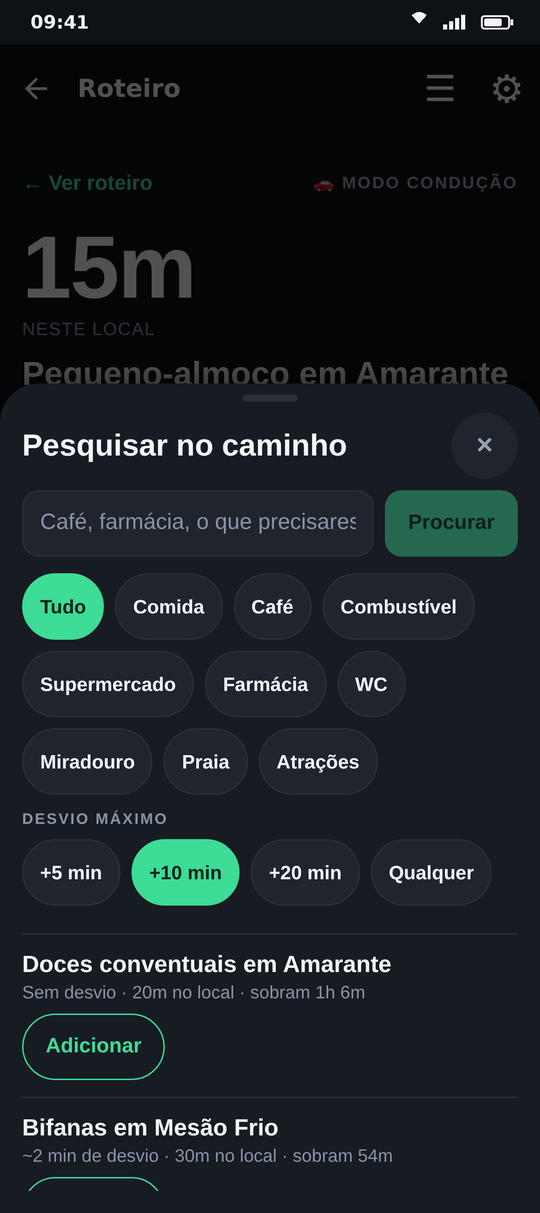
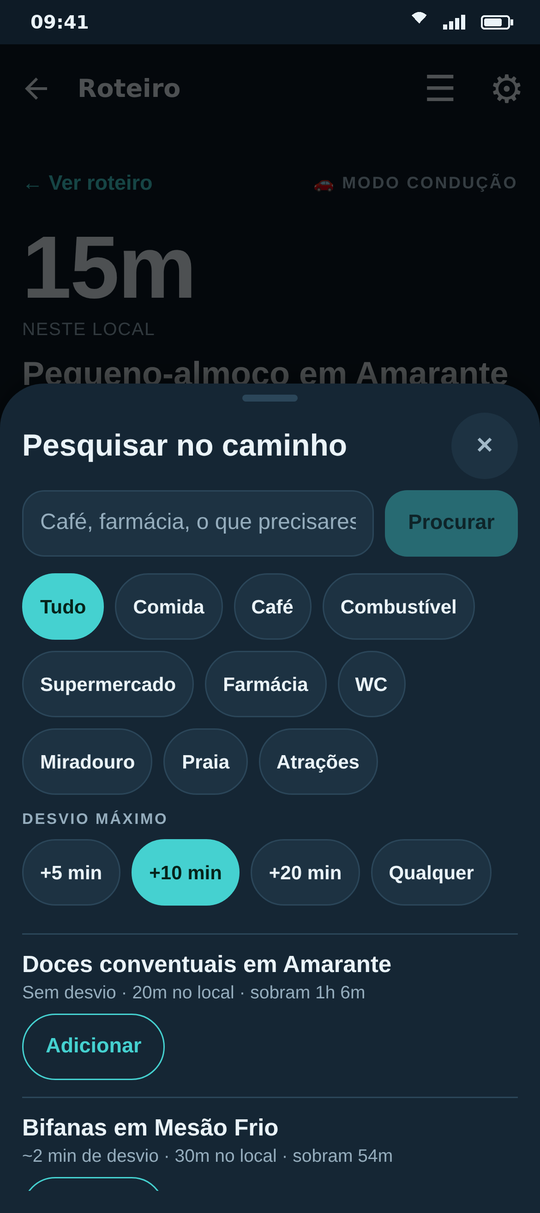
Home: sea-glass light mode and app captures that match the page's mode
- Light mode tinted rather than near-white
- App screens captured in both themes (Brisa and Brisa noite, synthetic
  Douro trip); the page shows the set matching its own mode

diff --git a/index.html b/index.html
@@ -5,7 +5,7 @@
 <meta name="viewport" content="width=device-width, initial-scale=1">
 <title>Plan-ish: planeia a viagem, depois vive-a</title>
 <meta name="description" content="Planeador e acompanhante de viagens para Android. Roteiro dia a dia, horas que se ajustam sozinhas e o Google Maps a um toque. Sem conta e sem anúncios.">
-<meta name="theme-color" content="#F2F7F8">
+<meta name="theme-color" content="#D5E7E6">
 <script>try { if (localStorage.getItem('planish-theme') === 'dark') document.documentElement.dataset.theme = 'dark'; } catch (e) {}</script>
 <meta property="og:type" content="website">
 <meta property="og:title" content="Plan-ish: planeia a viagem, depois vive-a">
@@ -42,8 +42,10 @@
         </div>
       </div>
       <div class="phones rise" aria-label="O Plan-ish no telemóvel">
-        <img class="phone back" src="assets/shot-conducao.png" width="540" height="1213" alt="Modo condução: 15 minutos no local, pode sair às 10:15, a seguir almoço no Peso da Régua.">
-        <img class="phone front" src="assets/shot-roteiro.png" width="540" height="1213" alt="Roteiro de uma sexta-feira do Porto ao Pinhão, com as horas de cada paragem, as deslocações e a margem entre elas.">
+        <img class="on-light phone back" src="assets/shot-conducao-light.png" width="540" height="1213" alt="Modo condução: 15 minutos no local, pode sair às 10:15, a seguir almoço no Peso da Régua.">
+<img class="on-dark phone back" src="assets/shot-conducao.png" width="540" height="1213" alt="Modo condução: 15 minutos no local, pode sair às 10:15, a seguir almoço no Peso da Régua.">
+        <img class="on-light phone front" src="assets/shot-roteiro-light.png" width="540" height="1213" alt="Roteiro de uma sexta-feira do Porto ao Pinhão, com as horas de cada paragem, as deslocações e a margem entre elas.">
+<img class="on-dark phone front" src="assets/shot-roteiro.png" width="540" height="1213" alt="Roteiro de uma sexta-feira do Porto ao Pinhão, com as horas de cada paragem, as deslocações e a margem entre elas.">
       </div>
     </div>
   </section>
@@ -69,26 +71,31 @@
           <svg class="icon" aria-hidden="true" focusable="false" xmlns="http://www.w3.org/2000/svg" viewBox="0 0 256 256" fill="currentColor"><path d="M228.92,49.69a8,8,0,0,0-6.86-1.45L160.93,63.52,99.58,32.84a8,8,0,0,0-5.52-.6l-64,16A8,8,0,0,0,24,56V200a8,8,0,0,0,9.94,7.76l61.13-15.28,61.35,30.68A8.15,8.15,0,0,0,160,224a8,8,0,0,0,1.94-.24l64-16A8,8,0,0,0,232,200V56A8,8,0,0,0,228.92,49.69ZM104,52.94l48,24V203.06l-48-24ZM40,62.25l48-12v127.5l-48,12Zm176,131.5-48,12V78.25l48-12Z"/></svg>
           <h3>Sabes sempre como vai o dia</h3>
           <p>Onde estás no plano, quanto falta e se o resto ainda cabe. As horas seguintes acertam-se sozinhas.</p>
-          <img class="card" src="assets/card-agora.png" width="666" height="289" alt="Cartão Agora: pequeno-almoço em Amarante, aqui há 15 minutos, faltam 30, dentro do plano." loading="lazy">
-          <img class="phone-in" src="assets/shot-roteiro.png" width="540" height="1213" alt="" loading="lazy">
+          <img class="on-light card" src="assets/card-agora-light.png" width="666" height="289" alt="Cartão Agora: pequeno-almoço em Amarante, aqui há 15 minutos, faltam 30, dentro do plano." loading="lazy">
+<img class="on-dark card" src="assets/card-agora.png" width="666" height="289" alt="Cartão Agora: pequeno-almoço em Amarante, aqui há 15 minutos, faltam 30, dentro do plano." loading="lazy">
+          <img class="on-light phone-in" src="assets/shot-roteiro-light.png" width="540" height="1213" alt="" loading="lazy">
+<img class="on-dark phone-in" src="assets/shot-roteiro.png" width="540" height="1213" alt="" loading="lazy">
         </article>
         <article class="tile tint rise">
           <svg class="icon" aria-hidden="true" focusable="false" xmlns="http://www.w3.org/2000/svg" viewBox="0 0 256 256" fill="currentColor"><path d="M176,232a8,8,0,0,1-8,8H88a8,8,0,0,1,0-16h80A8,8,0,0,1,176,232Zm40-128a87.55,87.55,0,0,1-33.64,69.21A16.24,16.24,0,0,0,176,186v6a16,16,0,0,1-16,16H96a16,16,0,0,1-16-16v-6a16,16,0,0,0-6.23-12.66A87.59,87.59,0,0,1,40,104.49C39.74,56.83,78.26,17.14,125.88,16A88,88,0,0,1,216,104Zm-16,0a72,72,0,0,0-73.74-72c-39,.92-70.47,33.39-70.26,72.39a71.65,71.65,0,0,0,27.64,56.3A32,32,0,0,1,96,186v6h64v-6a32.15,32.15,0,0,1,12.47-25.35A71.65,71.65,0,0,0,200,104Zm-16.11-9.34a57.6,57.6,0,0,0-46.56-46.55,8,8,0,0,0-2.66,15.78c16.57,2.79,30.63,16.85,33.44,33.45A8,8,0,0,0,176,104a9,9,0,0,0,1.35-.11A8,8,0,0,0,183.89,94.66Z"/></svg>
           <h3>Ideias que cabem no caminho</h3>
           <p>Guarda sítios sem hora marcada. Se sobrar tempo, o Plan-ish sugere um que fique no caminho.</p>
-          <img class="shot" src="assets/shot-sugestao.png" width="540" height="1213" alt="Sugestão: tens cerca de 1h20 livres e um miradouro fica no caminho." loading="lazy">
+          <img class="on-light shot" src="assets/shot-sugestao-light.png" width="540" height="1213" alt="Sugestão: tens cerca de 1h20 livres e um miradouro fica no caminho." loading="lazy">
+<img class="on-dark shot" src="assets/shot-sugestao.png" width="540" height="1213" alt="Sugestão: tens cerca de 1h20 livres e um miradouro fica no caminho." loading="lazy">
         </article>
         <article class="tile rise">
           <svg class="icon" aria-hidden="true" focusable="false" xmlns="http://www.w3.org/2000/svg" viewBox="0 0 256 256" fill="currentColor"><path d="M229.66,218.34l-50.07-50.06a88.11,88.11,0,1,0-11.31,11.31l50.06,50.07a8,8,0,0,0,11.32-11.32ZM40,112a72,72,0,1,1,72,72A72.08,72.08,0,0,1,40,112Z"/></svg>
           <h3>Pesquisar no caminho</h3>
           <p>Café, combustível ou farmácia, ordenados pelo tempo que acrescentam à viagem.</p>
-          <img class="shot" style="object-position: 50% 36%" src="assets/shot-caminho.png" width="540" height="1213" alt="Pesquisar no caminho, com o desvio de cada resultado." loading="lazy">
+          <img class="on-light shot" style="object-position: 50% 36%" src="assets/shot-caminho-light.png" width="540" height="1213" alt="Pesquisar no caminho, com o desvio de cada resultado." loading="lazy">
+<img class="on-dark shot" style="object-position: 50% 36%" src="assets/shot-caminho.png" width="540" height="1213" alt="Pesquisar no caminho, com o desvio de cada resultado." loading="lazy">
         </article>
         <article class="tile rise">
           <svg class="icon" aria-hidden="true" focusable="false" xmlns="http://www.w3.org/2000/svg" viewBox="0 0 256 256" fill="currentColor"><path d="M173.66,98.34a8,8,0,0,1,0,11.32l-56,56a8,8,0,0,1-11.32,0l-24-24a8,8,0,0,1,11.32-11.32L112,148.69l50.34-50.35A8,8,0,0,1,173.66,98.34ZM224,48V208a16,16,0,0,1-16,16H48a16,16,0,0,1-16-16V48A16,16,0,0,1,48,32H208A16,16,0,0,1,224,48ZM208,208V48H48V208H208Z"/></svg>
           <h3>O que levar, por paragem</h3>
           <p>O protetor solar fica no miradouro, as botas na caminhada. Vês a viagem inteira ou dia a dia.</p>
-          <img class="shot" src="assets/shot-checklist.png" width="540" height="1213" alt="Checklist da viagem, com as paragens que pedem cada coisa." loading="lazy">
+          <img class="on-light shot" src="assets/shot-checklist-light.png" width="540" height="1213" alt="Checklist da viagem, com as paragens que pedem cada coisa." loading="lazy">
+<img class="on-dark shot" src="assets/shot-checklist.png" width="540" height="1213" alt="Checklist da viagem, com as paragens que pedem cada coisa." loading="lazy">
         </article>
         <article class="tile tint rise">
           <svg class="icon" aria-hidden="true" focusable="false" xmlns="http://www.w3.org/2000/svg" viewBox="0 0 256 256" fill="currentColor"><path d="M216,40H72A16,16,0,0,0,56,56V72H40A16,16,0,0,0,24,88V200a16,16,0,0,0,16,16H184a16,16,0,0,0,16-16V184h16a16,16,0,0,0,16-16V56A16,16,0,0,0,216,40ZM72,56H216v62.75l-10.07-10.06a16,16,0,0,0-22.63,0l-20,20-44-44a16,16,0,0,0-22.62,0L72,109.37ZM184,200H40V88H56v80a16,16,0,0,0,16,16H184Zm32-32H72V132l36-36,49.66,49.66a8,8,0,0,0,11.31,0L194.63,120,216,141.38V168ZM160,84a12,12,0,1,1,12,12A12,12,0,0,1,160,84Z"/></svg>
@@ -107,8 +114,10 @@
   <section class="section drive">
     <div class="wrap">
       <div class="pair rise">
-        <img src="assets/shot-conducao.png" width="540" height="1213" alt="Modo condução em letra grande, com o botão para marcar a saída." loading="lazy">
-        <img src="assets/shot-dial.png" width="540" height="1213" alt="Modo condução com o botão + aberto: adicionar paragem, pesquisar no caminho, ajustar o dia." loading="lazy">
+        <img class="on-light a" src="assets/shot-conducao-light.png" width="540" height="1213" alt="Modo condução em letra grande, com o botão para marcar a saída." loading="lazy">
+<img class="on-dark a" src="assets/shot-conducao.png" width="540" height="1213" alt="Modo condução em letra grande, com o botão para marcar a saída." loading="lazy">
+        <img class="on-light b" src="assets/shot-dial-light.png" width="540" height="1213" alt="Modo condução com o botão + aberto: adicionar paragem, pesquisar no caminho, ajustar o dia." loading="lazy">
+<img class="on-dark b" src="assets/shot-dial.png" width="540" height="1213" alt="Modo condução com o botão + aberto: adicionar paragem, pesquisar no caminho, ajustar o dia." loading="lazy">
       </div>
       <div>
         <h2 class="rise">Ao volante, só o essencial</h2>
@@ -178,7 +187,7 @@
     function show() {
       var dark = root.dataset.theme === 'dark';
       button.setAttribute('aria-pressed', String(dark));
-      meta.setAttribute('content', dark ? '#0E1B26' : '#F2F7F8');
+      meta.setAttribute('content', dark ? '#0E1B26' : '#D5E7E6');
     }
     button.addEventListener('click', function () {
       if (root.dataset.theme === 'dark') delete root.dataset.theme; else root.dataset.theme = 'dark';

diff --git a/index.en.html b/index.en.html
@@ -5,7 +5,7 @@
 <meta name="viewport" content="width=device-width, initial-scale=1">
 <title>Plan-ish: plan the trip, then live it</title>
 <meta name="description" content="A trip planner and travel companion for Android. A day-by-day itinerary, times that adjust themselves and Google Maps one tap away. No account, no ads.">
-<meta name="theme-color" content="#F2F7F8">
+<meta name="theme-color" content="#D5E7E6">
 <script>try { if (localStorage.getItem('planish-theme') === 'dark') document.documentElement.dataset.theme = 'dark'; } catch (e) {}</script>
 <meta property="og:type" content="website">
 <meta property="og:title" content="Plan-ish: plan the trip, then live it">
@@ -42,8 +42,10 @@
         </div>
       </div>
       <div class="phones rise" aria-label="Plan-ish on a phone">
-        <img class="phone back" src="assets/shot-conducao.png" width="540" height="1213" alt="Driving mode: 15 minutes here, you can leave at 10:15, lunch in Peso da Régua next.">
-        <img class="phone front" src="assets/shot-roteiro.png" width="540" height="1213" alt="A Friday itinerary from Porto to Pinhão, with the time of each stop, the drives and the slack between them.">
+        <img class="on-light phone back" src="assets/shot-conducao-light.png" width="540" height="1213" alt="Driving mode: 15 minutes here, you can leave at 10:15, lunch in Peso da Régua next.">
+<img class="on-dark phone back" src="assets/shot-conducao.png" width="540" height="1213" alt="Driving mode: 15 minutes here, you can leave at 10:15, lunch in Peso da Régua next.">
+        <img class="on-light phone front" src="assets/shot-roteiro-light.png" width="540" height="1213" alt="A Friday itinerary from Porto to Pinhão, with the time of each stop, the drives and the slack between them.">
+<img class="on-dark phone front" src="assets/shot-roteiro.png" width="540" height="1213" alt="A Friday itinerary from Porto to Pinhão, with the time of each stop, the drives and the slack between them.">
       </div>
     </div>
   </section>
@@ -69,26 +71,31 @@
           <svg class="icon" aria-hidden="true" focusable="false" xmlns="http://www.w3.org/2000/svg" viewBox="0 0 256 256" fill="currentColor"><path d="M228.92,49.69a8,8,0,0,0-6.86-1.45L160.93,63.52,99.58,32.84a8,8,0,0,0-5.52-.6l-64,16A8,8,0,0,0,24,56V200a8,8,0,0,0,9.94,7.76l61.13-15.28,61.35,30.68A8.15,8.15,0,0,0,160,224a8,8,0,0,0,1.94-.24l64-16A8,8,0,0,0,232,200V56A8,8,0,0,0,228.92,49.69ZM104,52.94l48,24V203.06l-48-24ZM40,62.25l48-12v127.5l-48,12Zm176,131.5-48,12V78.25l48-12Z"/></svg>
           <h3>Always know how the day is going</h3>
           <p>Where you are in the plan, how long is left and whether the rest still fits. The times that follow adjust themselves.</p>
-          <img class="card" src="assets/card-agora.png" width="666" height="289" alt="Now card: breakfast in Amarante, here for 15 minutes, 30 to go, on plan." loading="lazy">
-          <img class="phone-in" src="assets/shot-roteiro.png" width="540" height="1213" alt="" loading="lazy">
+          <img class="on-light card" src="assets/card-agora-light.png" width="666" height="289" alt="Now card: breakfast in Amarante, here for 15 minutes, 30 to go, on plan." loading="lazy">
+<img class="on-dark card" src="assets/card-agora.png" width="666" height="289" alt="Now card: breakfast in Amarante, here for 15 minutes, 30 to go, on plan." loading="lazy">
+          <img class="on-light phone-in" src="assets/shot-roteiro-light.png" width="540" height="1213" alt="" loading="lazy">
+<img class="on-dark phone-in" src="assets/shot-roteiro.png" width="540" height="1213" alt="" loading="lazy">
         </article>
         <article class="tile tint rise">
           <svg class="icon" aria-hidden="true" focusable="false" xmlns="http://www.w3.org/2000/svg" viewBox="0 0 256 256" fill="currentColor"><path d="M176,232a8,8,0,0,1-8,8H88a8,8,0,0,1,0-16h80A8,8,0,0,1,176,232Zm40-128a87.55,87.55,0,0,1-33.64,69.21A16.24,16.24,0,0,0,176,186v6a16,16,0,0,1-16,16H96a16,16,0,0,1-16-16v-6a16,16,0,0,0-6.23-12.66A87.59,87.59,0,0,1,40,104.49C39.74,56.83,78.26,17.14,125.88,16A88,88,0,0,1,216,104Zm-16,0a72,72,0,0,0-73.74-72c-39,.92-70.47,33.39-70.26,72.39a71.65,71.65,0,0,0,27.64,56.3A32,32,0,0,1,96,186v6h64v-6a32.15,32.15,0,0,1,12.47-25.35A71.65,71.65,0,0,0,200,104Zm-16.11-9.34a57.6,57.6,0,0,0-46.56-46.55,8,8,0,0,0-2.66,15.78c16.57,2.79,30.63,16.85,33.44,33.45A8,8,0,0,0,176,104a9,9,0,0,0,1.35-.11A8,8,0,0,0,183.89,94.66Z"/></svg>
           <h3>Ideas that fit on the way</h3>
           <p>Save places without a set time. With time to spare, Plan-ish suggests one on your way.</p>
-          <img class="shot" src="assets/shot-sugestao.png" width="540" height="1213" alt="Suggestion: about 1h20 free, and a viewpoint on the way." loading="lazy">
+          <img class="on-light shot" src="assets/shot-sugestao-light.png" width="540" height="1213" alt="Suggestion: about 1h20 free, and a viewpoint on the way." loading="lazy">
+<img class="on-dark shot" src="assets/shot-sugestao.png" width="540" height="1213" alt="Suggestion: about 1h20 free, and a viewpoint on the way." loading="lazy">
         </article>
         <article class="tile rise">
           <svg class="icon" aria-hidden="true" focusable="false" xmlns="http://www.w3.org/2000/svg" viewBox="0 0 256 256" fill="currentColor"><path d="M229.66,218.34l-50.07-50.06a88.11,88.11,0,1,0-11.31,11.31l50.06,50.07a8,8,0,0,0,11.32-11.32ZM40,112a72,72,0,1,1,72,72A72.08,72.08,0,0,1,40,112Z"/></svg>
           <h3>Search along the way</h3>
           <p>Coffee, fuel or a pharmacy, sorted by how much time each adds to the trip.</p>
-          <img class="shot" style="object-position: 50% 36%" src="assets/shot-caminho.png" width="540" height="1213" alt="Search along the way, with the detour for each result." loading="lazy">
+          <img class="on-light shot" style="object-position: 50% 36%" src="assets/shot-caminho-light.png" width="540" height="1213" alt="Search along the way, with the detour for each result." loading="lazy">
+<img class="on-dark shot" style="object-position: 50% 36%" src="assets/shot-caminho.png" width="540" height="1213" alt="Search along the way, with the detour for each result." loading="lazy">
         </article>
         <article class="tile rise">
           <svg class="icon" aria-hidden="true" focusable="false" xmlns="http://www.w3.org/2000/svg" viewBox="0 0 256 256" fill="currentColor"><path d="M173.66,98.34a8,8,0,0,1,0,11.32l-56,56a8,8,0,0,1-11.32,0l-24-24a8,8,0,0,1,11.32-11.32L112,148.69l50.34-50.35A8,8,0,0,1,173.66,98.34ZM224,48V208a16,16,0,0,1-16,16H48a16,16,0,0,1-16-16V48A16,16,0,0,1,48,32H208A16,16,0,0,1,224,48ZM208,208V48H48V208H208Z"/></svg>
           <h3>What to bring, stop by stop</h3>
           <p>Sunscreen goes with the viewpoint, boots with the hike. See the whole trip or one day.</p>
-          <img class="shot" src="assets/shot-checklist.png" width="540" height="1213" alt="Trip checklist, with the stops that need each item." loading="lazy">
+          <img class="on-light shot" src="assets/shot-checklist-light.png" width="540" height="1213" alt="Trip checklist, with the stops that need each item." loading="lazy">
+<img class="on-dark shot" src="assets/shot-checklist.png" width="540" height="1213" alt="Trip checklist, with the stops that need each item." loading="lazy">
         </article>
         <article class="tile tint rise">
           <svg class="icon" aria-hidden="true" focusable="false" xmlns="http://www.w3.org/2000/svg" viewBox="0 0 256 256" fill="currentColor"><path d="M216,40H72A16,16,0,0,0,56,56V72H40A16,16,0,0,0,24,88V200a16,16,0,0,0,16,16H184a16,16,0,0,0,16-16V184h16a16,16,0,0,0,16-16V56A16,16,0,0,0,216,40ZM72,56H216v62.75l-10.07-10.06a16,16,0,0,0-22.63,0l-20,20-44-44a16,16,0,0,0-22.62,0L72,109.37ZM184,200H40V88H56v80a16,16,0,0,0,16,16H184Zm32-32H72V132l36-36,49.66,49.66a8,8,0,0,0,11.31,0L194.63,120,216,141.38V168ZM160,84a12,12,0,1,1,12,12A12,12,0,0,1,160,84Z"/></svg>
@@ -107,8 +114,10 @@
   <section class="section drive">
     <div class="wrap">
       <div class="pair rise">
-        <img src="assets/shot-conducao.png" width="540" height="1213" alt="Driving mode in large type, with the button to mark departure." loading="lazy">
-        <img src="assets/shot-dial.png" width="540" height="1213" alt="Driving mode with the + button open: add a stop, search along the way, adjust the day." loading="lazy">
+        <img class="on-light a" src="assets/shot-conducao-light.png" width="540" height="1213" alt="Driving mode in large type, with the button to mark departure." loading="lazy">
+<img class="on-dark a" src="assets/shot-conducao.png" width="540" height="1213" alt="Driving mode in large type, with the button to mark departure." loading="lazy">
+        <img class="on-light b" src="assets/shot-dial-light.png" width="540" height="1213" alt="Driving mode with the + button open: add a stop, search along the way, adjust the day." loading="lazy">
+<img class="on-dark b" src="assets/shot-dial.png" width="540" height="1213" alt="Driving mode with the + button open: add a stop, search along the way, adjust the day." loading="lazy">
       </div>
       <div>
         <h2 class="rise">At the wheel, just the essentials</h2>
@@ -178,7 +187,7 @@
     function show() {
       var dark = root.dataset.theme === 'dark';
       button.setAttribute('aria-pressed', String(dark));
-      meta.setAttribute('content', dark ? '#0E1B26' : '#F2F7F8');
+      meta.setAttribute('content', dark ? '#0E1B26' : '#D5E7E6');
     }
     button.addEventListener('click', function () {
       if (root.dataset.theme === 'dark') delete root.dataset.theme; else root.dataset.theme = 'dark';

diff --git a/assets/site.css b/assets/site.css
@@ -1,7 +1,8 @@
 /*
   Plan-ish, página de apresentação.
-  Paleta "Brisa": claro por defeito, em azuis e verdes; "Brisa noite" com o
-  botão do topo (data-theme="dark"). A mesma do site da Comunidade e do tema
+  Paleta "Brisa": claro por defeito, em verde-água com mais cor do que o tema
+  da app (lá há outros temas para escolher); "Brisa noite" com o botão do topo
+  (data-theme="dark"). As capturas da app trocam com o modo (.on-light/.on-dark). A mesma do site da Comunidade e do tema
   por defeito da app (src/ui/themes/index.ts, "brisa" e "brisa-noite").
   Letra: Figtree (SIL OFL 1.1, assets/fonts/OFL.txt). Ícones: Phosphor (MIT).
 */
@@ -15,18 +16,18 @@
 
 :root {
   color-scheme: light;
-  --bg: #F2F7F8;
-  --bg-2: #E8F3F2;
-  --surface: #FFFFFF;
-  --raised: #E7F1F3;
-  --line: #CFE0E4;
-  --fg: #0C1F2A;
-  --muted: #465F6C;
-  --accent: #0A717B;
-  --accent-soft: rgba(10, 113, 123, .09);
+  --bg: #D5E7E6;
+  --bg-2: #C7DEDD;
+  --surface: #E6F2F1;
+  --raised: #BFD8D7;
+  --line: #A9C6C5;
+  --fg: #0A1D26;
+  --muted: #324C57;
+  --accent: #075F68;
+  --accent-soft: rgba(7, 95, 104, .10);
   --accent-ink: #FFFFFF;
-  --glow: rgba(61, 220, 151, .22);
-  --shadow: 0 30px 60px -32px rgba(12, 31, 42, .32);
+  --glow: rgba(61, 220, 151, .32);
+  --shadow: 0 30px 60px -30px rgba(8, 40, 44, .38);
   --r: 20px;
   --r-sm: 14px;
   --font: "Figtree", system-ui, -apple-system, "Segoe UI", Roboto, sans-serif;
@@ -80,6 +81,7 @@ p { margin: 0; }
 .mode .to-light, :root[data-theme="dark"] .mode .to-dark { display: none; }
 :root[data-theme="dark"] .mode .to-light { display: contents; }
 .mode .to-dark { display: contents; }
+:root:not([data-theme="dark"]) .on-dark, :root[data-theme="dark"] .on-light { display: none !important; }
 
 /* ---------------------------------------------------------- botões */
 .btn { display: inline-flex; align-items: center; gap: .55rem; min-height: 52px; padding: 0 1.4rem; border-radius: 999px; font-weight: 700; font-size: 1rem; text-decoration: none; white-space: nowrap; border: 1px solid transparent; transition: transform .25s cubic-bezier(.16, 1, .3, 1), background-color .2s, border-color .2s; }
@@ -146,7 +148,7 @@ p { margin: 0; }
   .dots { display: flex; justify-content: center; gap: .4rem; margin-top: 1.1rem; }
   .dots i { width: 7px; height: 7px; border-radius: 999px; background: var(--line); transition: width .3s cubic-bezier(.16, 1, .3, 1), background-color .3s; }
   .dots i.on { width: 22px; background: var(--accent); }
-  .drive .pair img:last-child { display: none; }
+  .drive .pair .b { display: none; }
   .drive .pair img { width: min(230px, 64%); }
 }
 @media (min-width: 48rem) { .dots { display: none; } }
@@ -161,7 +163,7 @@ p { margin: 0; }
 .drive p { color: var(--muted); font-size: 1.15rem; margin-top: 1.1rem; max-width: 30rem; }
 .drive .pair { display: flex; gap: 1rem; justify-content: center; }
 .drive .pair img { width: min(240px, 46%); height: auto; border-radius: 28px; border: 1px solid var(--line); box-shadow: var(--shadow); }
-.drive .pair img:last-child { margin-top: 3rem; }
+.drive .pair .b { margin-top: 3rem; }
 
 /* ------------------------------------------------------ com outros */
 .together { background: var(--bg-2); border-block: 1px solid var(--line); }
